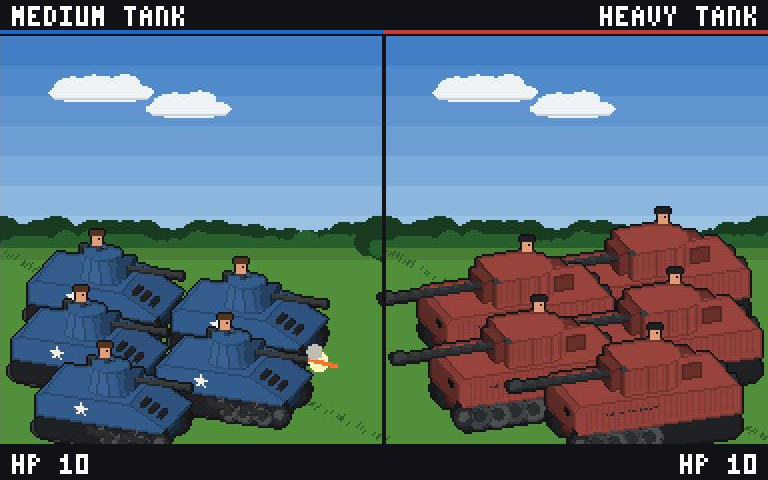
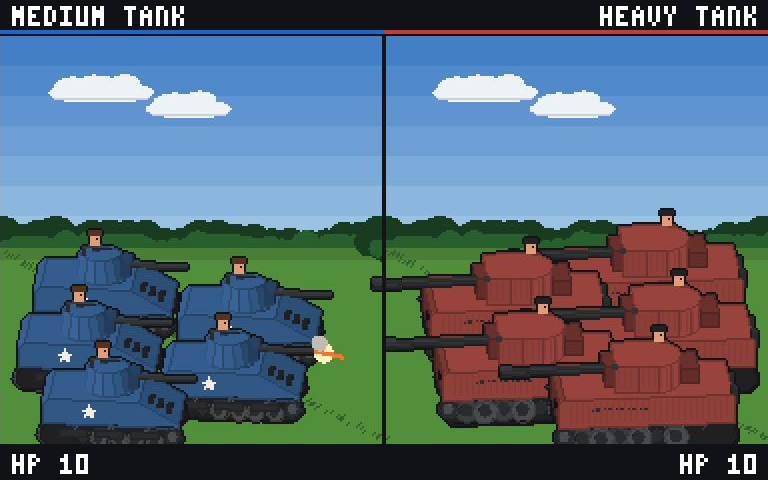
Angled view prototype: default to 5 degrees

Changed region(s): [[0.4688, 0.4062, 1.0, 0.9375], [0.0, 0.4688, 0.4688, 0.9375]]

diff --git a/src/game/battle/angled/mesh.ts b/src/game/battle/angled/mesh.ts
@@ -23,7 +23,7 @@ export interface View {
   readonly pitch: number;
 }
 
-export const THREE_QUARTER: View = { yaw: -0.35, pitch: 0.42 };
+export const THREE_QUARTER: View = { yaw: -0.087, pitch: 0.42 };
 
 // Model axes: x forward (toward the enemy), y to the vehicle's left, z up. Units are scene pixels.
 
